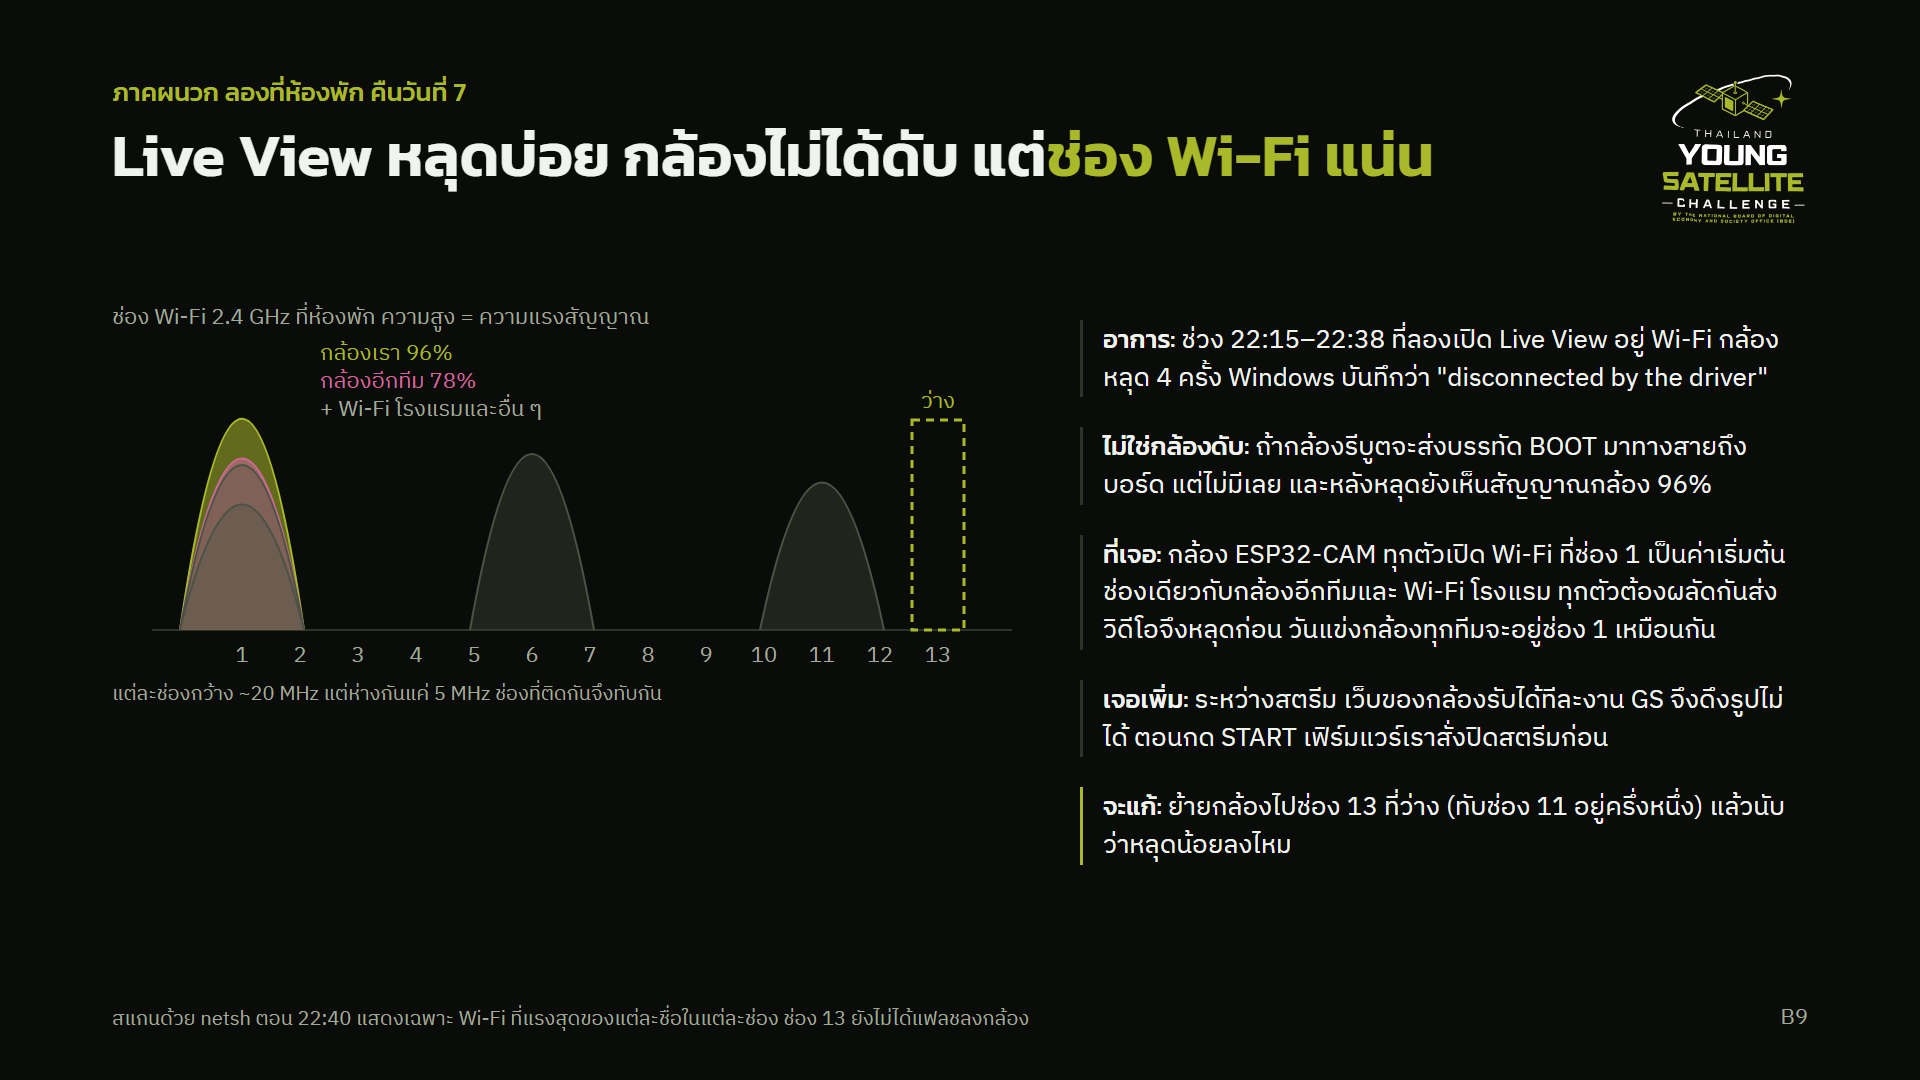
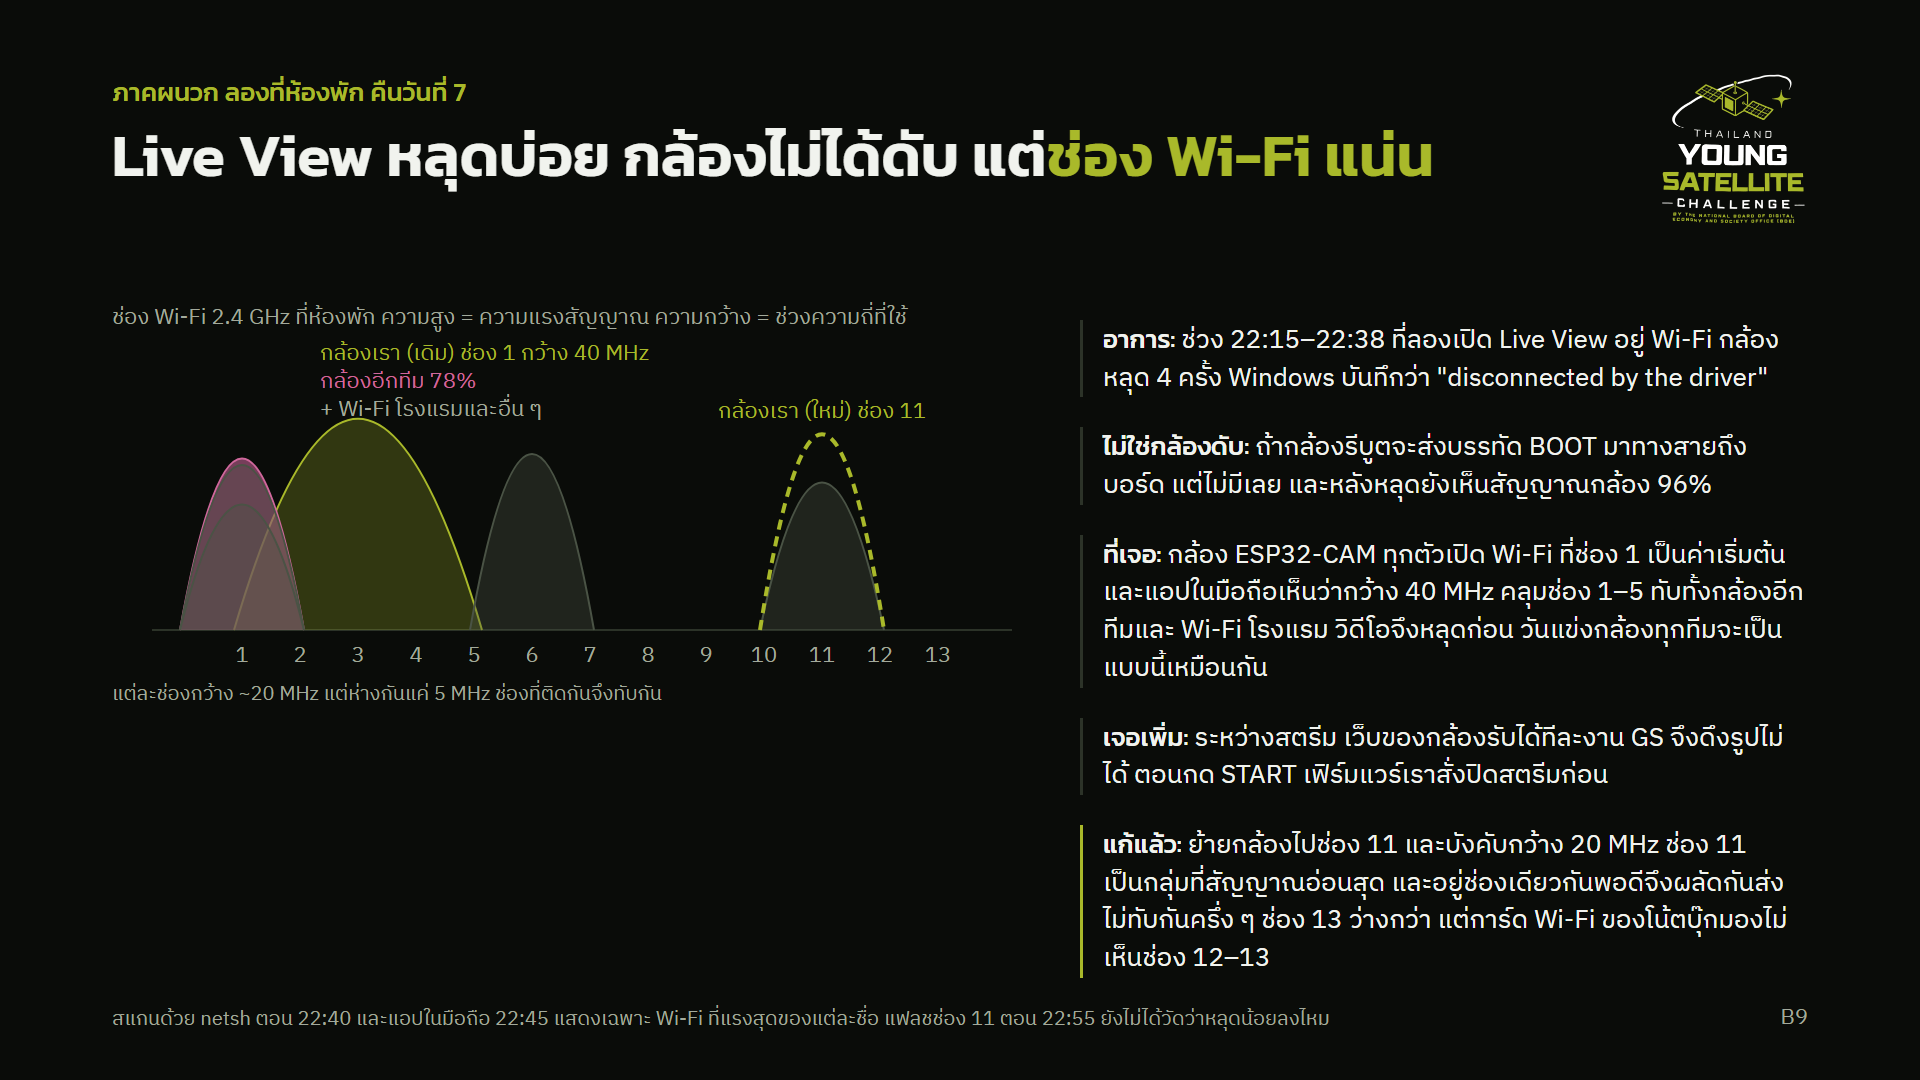
slides: B9 camera now on channel 11 / 20 MHz (old AP drawn 40 MHz wide)

diff --git a/SunSeek/presentation/deck/camwifi.html b/SunSeek/presentation/deck/camwifi.html
@@ -14,15 +14,15 @@
     <div class="eyebrow">ภาคผนวก ลองที่ห้องพัก คืนวันที่ 7</div>
     <h2>Live View หลุดบ่อย กล้องไม่ได้ดับ แต่<em>ช่อง Wi-Fi แน่น</em></h2>
   </div>
-<svg class="svgfig" style="left:112px;top:300px" width="900" height="420" viewBox="0 0 900 420"><text class="m" x="0" y="24" font-size="22">ช่อง Wi-Fi 2.4 GHz ที่ห้องพัก ความสูง = ความแรงสัญญาณ</text><text class="m" x="130" y="362" font-size="22" text-anchor="middle">1</text><text class="m" x="188" y="362" font-size="22" text-anchor="middle">2</text><text class="m" x="246" y="362" font-size="22" text-anchor="middle">3</text><text class="m" x="304" y="362" font-size="22" text-anchor="middle">4</text><text class="m" x="362" y="362" font-size="22" text-anchor="middle">5</text><text class="m" x="420" y="362" font-size="22" text-anchor="middle">6</text><text class="m" x="478" y="362" font-size="22" text-anchor="middle">7</text><text class="m" x="536" y="362" font-size="22" text-anchor="middle">8</text><text class="m" x="594" y="362" font-size="22" text-anchor="middle">9</text><text class="m" x="652" y="362" font-size="22" text-anchor="middle">10</text><text class="m" x="710" y="362" font-size="22" text-anchor="middle">11</text><text class="m" x="768" y="362" font-size="22" text-anchor="middle">12</text><text class="m" x="826" y="362" font-size="22" text-anchor="middle">13</text><line x1="40" y1="330" x2="900" y2="330" stroke="#2C3328" stroke-width="2"/><path d="M68 330 Q130 -92.40000000000003 192 330" fill="#A9B92A" fill-opacity="0.55" stroke="#A9B92A" stroke-width="2"/><path d="M68 330 Q130 -13.200000000000045 192 330" fill="#D0689C" fill-opacity="0.55" stroke="#D0689C" stroke-width="2"/><path d="M68 330 Q130 0 192 330" fill="#4A5345" fill-opacity="0.35" stroke="#4A5345" stroke-width="2"/><path d="M68 330 Q130 79.19999999999999 192 330" fill="#4A5345" fill-opacity="0.35" stroke="#4A5345" stroke-width="2"/><path d="M358 330 Q420 -22 482 330" fill="#4A5345" fill-opacity="0.35" stroke="#4A5345" stroke-width="2"/><path d="M648 330 Q710 35.19999999999999 772 330" fill="#4A5345" fill-opacity="0.35" stroke="#4A5345" stroke-width="2"/><text x="208" y="60" font-size="22" style="fill:#A9B92A">กล้องเรา 96%</text><text x="208" y="88" font-size="22" style="fill:#D0689C">กล้องอีกทีม 78%</text><text class="m" x="208" y="116" font-size="22">+ Wi-Fi โรงแรมและอื่น ๆ</text><rect x="800" y="120" width="52" height="210" fill="none" stroke="#A9B92A" stroke-width="3" stroke-dasharray="8 6"/><text x="826" y="108" font-size="22" text-anchor="middle" style="fill:#A9B92A">ว่าง</text><text class="m" x="0" y="400" font-size="20">แต่ละช่องกว้าง ~20 MHz แต่ห่างกันแค่ 5 MHz ช่องที่ติดกันจึงทับกัน</text></svg>
+<svg class="svgfig" style="left:112px;top:300px" width="900" height="420" viewBox="0 0 900 420"><text class="m" x="0" y="24" font-size="22">ช่อง Wi-Fi 2.4 GHz ที่ห้องพัก ความสูง = ความแรงสัญญาณ ความกว้าง = ช่วงความถี่ที่ใช้</text><text class="m" x="130" y="362" font-size="22" text-anchor="middle">1</text><text class="m" x="188" y="362" font-size="22" text-anchor="middle">2</text><text class="m" x="246" y="362" font-size="22" text-anchor="middle">3</text><text class="m" x="304" y="362" font-size="22" text-anchor="middle">4</text><text class="m" x="362" y="362" font-size="22" text-anchor="middle">5</text><text class="m" x="420" y="362" font-size="22" text-anchor="middle">6</text><text class="m" x="478" y="362" font-size="22" text-anchor="middle">7</text><text class="m" x="536" y="362" font-size="22" text-anchor="middle">8</text><text class="m" x="594" y="362" font-size="22" text-anchor="middle">9</text><text class="m" x="652" y="362" font-size="22" text-anchor="middle">10</text><text class="m" x="710" y="362" font-size="22" text-anchor="middle">11</text><text class="m" x="768" y="362" font-size="22" text-anchor="middle">12</text><text class="m" x="826" y="362" font-size="22" text-anchor="middle">13</text><line x1="40" y1="330" x2="900" y2="330" stroke="#2C3328" stroke-width="2"/><path d="M122 330 Q246 -92.40000000000003 370 330" fill="#A9B92A" fill-opacity="0.25" stroke="#A9B92A" stroke-width="2"/><path d="M68 330 Q130 -13.200000000000045 192 330" fill="#D0689C" fill-opacity="0.55" stroke="#D0689C" stroke-width="2"/><path d="M68 330 Q130 0 192 330" fill="#4A5345" fill-opacity="0.35" stroke="#4A5345" stroke-width="2"/><path d="M68 330 Q130 79.19999999999999 192 330" fill="#4A5345" fill-opacity="0.35" stroke="#4A5345" stroke-width="2"/><path d="M358 330 Q420 -22 482 330" fill="#4A5345" fill-opacity="0.35" stroke="#4A5345" stroke-width="2"/><path d="M648 330 Q710 35.19999999999999 772 330" fill="#4A5345" fill-opacity="0.35" stroke="#4A5345" stroke-width="2"/><text x="208" y="60" font-size="22" style="fill:#A9B92A">กล้องเรา (เดิม) ช่อง 1 กว้าง 40 MHz</text><text x="208" y="88" font-size="22" style="fill:#D0689C">กล้องอีกทีม 78%</text><text class="m" x="208" y="116" font-size="22">+ Wi-Fi โรงแรมและอื่น ๆ</text><path d="M648 330 Q710 -61.60000000000002 772 330" fill="none" stroke="#A9B92A" stroke-width="4" stroke-dasharray="10 7"/><text x="710" y="118.19999999999999" font-size="22" text-anchor="middle" style="fill:#A9B92A">กล้องเรา (ใหม่) ช่อง 11</text><text class="m" x="0" y="400" font-size="20">แต่ละช่องกว้าง ~20 MHz แต่ห่างกันแค่ 5 MHz ช่องที่ติดกันจึงทับกัน</text></svg>
   <div class="notes" style="left:1080px;width:728px">
     <p><b>อาการ:</b> ช่วง 22:15–22:38 ที่ลองเปิด Live View อยู่ Wi-Fi กล้องหลุด 4 ครั้ง Windows บันทึกว่า "disconnected by the driver"</p>
     <p><b>ไม่ใช่กล้องดับ:</b> ถ้ากล้องรีบูตจะส่งบรรทัด BOOT มาทางสายถึงบอร์ด แต่ไม่มีเลย และหลังหลุดยังเห็นสัญญาณกล้อง 96%</p>
-    <p><b>ที่เจอ:</b> กล้อง ESP32-CAM ทุกตัวเปิด Wi-Fi ที่ช่อง 1 เป็นค่าเริ่มต้น ช่องเดียวกับกล้องอีกทีมและ Wi-Fi โรงแรม ทุกตัวต้องผลัดกันส่ง วิดีโอจึงหลุดก่อน วันแข่งกล้องทุกทีมจะอยู่ช่อง 1 เหมือนกัน</p>
+    <p><b>ที่เจอ:</b> กล้อง ESP32-CAM ทุกตัวเปิด Wi-Fi ที่ช่อง 1 เป็นค่าเริ่มต้น และแอปในมือถือเห็นว่ากว้าง 40 MHz คลุมช่อง 1–5 ทับทั้งกล้องอีกทีมและ Wi-Fi โรงแรม วิดีโอจึงหลุดก่อน วันแข่งกล้องทุกทีมจะเป็นแบบนี้เหมือนกัน</p>
     <p><b>เจอเพิ่ม:</b> ระหว่างสตรีม เว็บของกล้องรับได้ทีละงาน GS จึงดึงรูปไม่ได้ ตอนกด START เฟิร์มแวร์เราสั่งปิดสตรีมก่อน</p>
-    <p class="key"><b>จะแก้:</b> ย้ายกล้องไปช่อง 13 ที่ว่าง (ทับช่อง 11 อยู่ครึ่งหนึ่ง) แล้วนับว่าหลุดน้อยลงไหม</p>
+    <p class="key"><b>แก้แล้ว:</b> ย้ายกล้องไปช่อง 11 และบังคับกว้าง 20 MHz ช่อง 11 เป็นกลุ่มที่สัญญาณอ่อนสุด และอยู่ช่องเดียวกันพอดีจึงผลัดกันส่ง ไม่ทับกันครึ่ง ๆ ช่อง 13 ว่างกว่า แต่การ์ด Wi-Fi ของโน้ตบุ๊กมองไม่เห็นช่อง 12–13</p>
   </div>
-  <div class="source">สแกนด้วย netsh ตอน 22:40 แสดงเฉพาะ Wi-Fi ที่แรงสุดของแต่ละชื่อในแต่ละช่อง ช่อง 13 ยังไม่ได้แฟลชลงกล้อง</div>
+  <div class="source">สแกนด้วย netsh ตอน 22:40 และแอปในมือถือ 22:45 แสดงเฉพาะ Wi-Fi ที่แรงสุดของแต่ละชื่อ แฟลชช่อง 11 ตอน 22:55 ยังไม่ได้วัดว่าหลุดน้อยลงไหม</div>
   <div class="page">B9</div>
 </section>
 <script>

diff --git a/SunSeek/presentation/deck/make_slides.js b/SunSeek/presentation/deck/make_slides.js
@@ -159,19 +159,21 @@ const wifiSvg = (() => {
   const ch = { 1: [['กล้องเรา', 96, 'us'], ['กล้องอีกทีม', 78, 'cam'], ['Wi-Fi โรงแรม', 75, ''], ['SciusCMU', 57, '']], 6: [['Wi-Fi โรงแรม', 80, '']], 11: [['Wi-Fi โรงแรม', 67, '']] };
   const x = (c) => 130 + (c - 1) * 58, base = 330;
   let s = `<svg class="svgfig" style="left:112px;top:300px" width="900" height="420" viewBox="0 0 900 420">`;
-  s += `<text class="m" x="0" y="24" font-size="22">ช่อง Wi-Fi 2.4 GHz ที่ห้องพัก ความสูง = ความแรงสัญญาณ</text>`;
+  s += `<text class="m" x="0" y="24" font-size="22">ช่อง Wi-Fi 2.4 GHz ที่ห้องพัก ความสูง = ความแรงสัญญาณ ความกว้าง = ช่วงความถี่ที่ใช้</text>`;
   for (let c = 1; c <= 13; c++) s += `<text class="m" x="${x(c)}" y="${base + 32}" font-size="22" text-anchor="middle">${c}</text>`;
   s += `<line x1="40" y1="${base}" x2="900" y2="${base}" stroke="#2C3328" stroke-width="2"/>`;
   for (const [c, nets] of Object.entries(ch)) nets.forEach(([name, p, k], i) => {
-    const h = p * 2.2, cx = x(+c);
+    // our camera before: primary channel 1 but 40 MHz wide (phone analyzer: channels 1-5)
+    const h = p * 2.2, cx = k === 'us' ? x(3) : x(+c), w = k === 'us' ? 124 : 62;
     const col = k === 'us' ? LIME : k === 'cam' ? PINK : '#4A5345';
-    s += `<path d="M${cx - 62} ${base} Q${cx} ${base - 2 * h} ${cx + 62} ${base}" fill="${col}" fill-opacity="${k ? 0.55 : 0.35}" stroke="${col}" stroke-width="2"/>`;
+    s += `<path d="M${cx - w} ${base} Q${cx} ${base - 2 * h} ${cx + w} ${base}" fill="${col}" fill-opacity="${k === 'us' ? 0.25 : k ? 0.55 : 0.35}" stroke="${col}" stroke-width="2"/>`;
   });
-  s += `<text x="${x(2) + 20}" y="60" font-size="22" style="fill:${LIME}">กล้องเรา 96%</text>`;
+  s += `<text x="${x(2) + 20}" y="60" font-size="22" style="fill:${LIME}">กล้องเรา (เดิม) ช่อง 1 กว้าง 40 MHz</text>`;
   s += `<text x="${x(2) + 20}" y="88" font-size="22" style="fill:${PINK}">กล้องอีกทีม 78%</text>`;
   s += `<text class="m" x="${x(2) + 20}" y="116" font-size="22">+ Wi-Fi โรงแรมและอื่น ๆ</text>`;
-  s += `<rect x="${x(13) - 26}" y="${base - 210}" width="52" height="210" fill="none" stroke="${LIME}" stroke-width="3" stroke-dasharray="8 6"/>`;
-  s += `<text x="${x(13)}" y="${base - 222}" font-size="22" text-anchor="middle" style="fill:${LIME}">ว่าง</text>`;
+  // our camera now: channel 11, 20 MHz (laptop scan 89 %)
+  s += `<path d="M${x(11) - 62} ${base} Q${x(11)} ${base - 2 * 89 * 2.2} ${x(11) + 62} ${base}" fill="none" stroke="${LIME}" stroke-width="4" stroke-dasharray="10 7"/>`;
+  s += `<text x="${x(11)}" y="${base - 89 * 2.2 - 16}" font-size="22" text-anchor="middle" style="fill:${LIME}">กล้องเรา (ใหม่) ช่อง 11</text>`;
   s += `<text class="m" x="0" y="${base + 70}" font-size="20">แต่ละช่องกว้าง ~20 MHz แต่ห่างกันแค่ 5 MHz ช่องที่ติดกันจึงทับกัน</text>`;
   return s + '</svg>';
 })();
@@ -495,10 +497,10 @@ ${wifiSvg}
   <div class="notes" style="left:1080px;width:728px">
     <p><b>อาการ:</b> ช่วง 22:15–22:38 ที่ลองเปิด Live View อยู่ Wi-Fi กล้องหลุด 4 ครั้ง Windows บันทึกว่า "disconnected by the driver"</p>
     <p><b>ไม่ใช่กล้องดับ:</b> ถ้ากล้องรีบูตจะส่งบรรทัด BOOT มาทางสายถึงบอร์ด แต่ไม่มีเลย และหลังหลุดยังเห็นสัญญาณกล้อง 96%</p>
-    <p><b>ที่เจอ:</b> กล้อง ESP32-CAM ทุกตัวเปิด Wi-Fi ที่ช่อง 1 เป็นค่าเริ่มต้น ช่องเดียวกับกล้องอีกทีมและ Wi-Fi โรงแรม ทุกตัวต้องผลัดกันส่ง วิดีโอจึงหลุดก่อน วันแข่งกล้องทุกทีมจะอยู่ช่อง 1 เหมือนกัน</p>
+    <p><b>ที่เจอ:</b> กล้อง ESP32-CAM ทุกตัวเปิด Wi-Fi ที่ช่อง 1 เป็นค่าเริ่มต้น และแอปในมือถือเห็นว่ากว้าง 40 MHz คลุมช่อง 1–5 ทับทั้งกล้องอีกทีมและ Wi-Fi โรงแรม วิดีโอจึงหลุดก่อน วันแข่งกล้องทุกทีมจะเป็นแบบนี้เหมือนกัน</p>
     <p><b>เจอเพิ่ม:</b> ระหว่างสตรีม เว็บของกล้องรับได้ทีละงาน GS จึงดึงรูปไม่ได้ ตอนกด START เฟิร์มแวร์เราสั่งปิดสตรีมก่อน</p>
-    <p class="key"><b>จะแก้:</b> ย้ายกล้องไปช่อง 13 ที่ว่าง (ทับช่อง 11 อยู่ครึ่งหนึ่ง) แล้วนับว่าหลุดน้อยลงไหม</p>
+    <p class="key"><b>แก้แล้ว:</b> ย้ายกล้องไปช่อง 11 และบังคับกว้าง 20 MHz ช่อง 11 เป็นกลุ่มที่สัญญาณอ่อนสุด และอยู่ช่องเดียวกันพอดีจึงผลัดกันส่ง ไม่ทับกันครึ่ง ๆ ช่อง 13 ว่างกว่า แต่การ์ด Wi-Fi ของโน้ตบุ๊กมองไม่เห็นช่อง 12–13</p>
   </div>
-  <div class="source">สแกนด้วย netsh ตอน 22:40 แสดงเฉพาะ Wi-Fi ที่แรงสุดของแต่ละชื่อในแต่ละช่อง ช่อง 13 ยังไม่ได้แฟลชลงกล้อง</div>`],
+  <div class="source">สแกนด้วย netsh ตอน 22:40 และแอปในมือถือ 22:45 แสดงเฉพาะ Wi-Fi ที่แรงสุดของแต่ละชื่อ แฟลชช่อง 11 ตอน 22:55 ยังไม่ได้วัดว่าหลุดน้อยลงไหม</div>`],
 ];
 for (const [n, file, title, cls, body] of slides) { fs.writeFileSync(D + file + '.html', page(n, title, cls, body)); console.log(file); }
